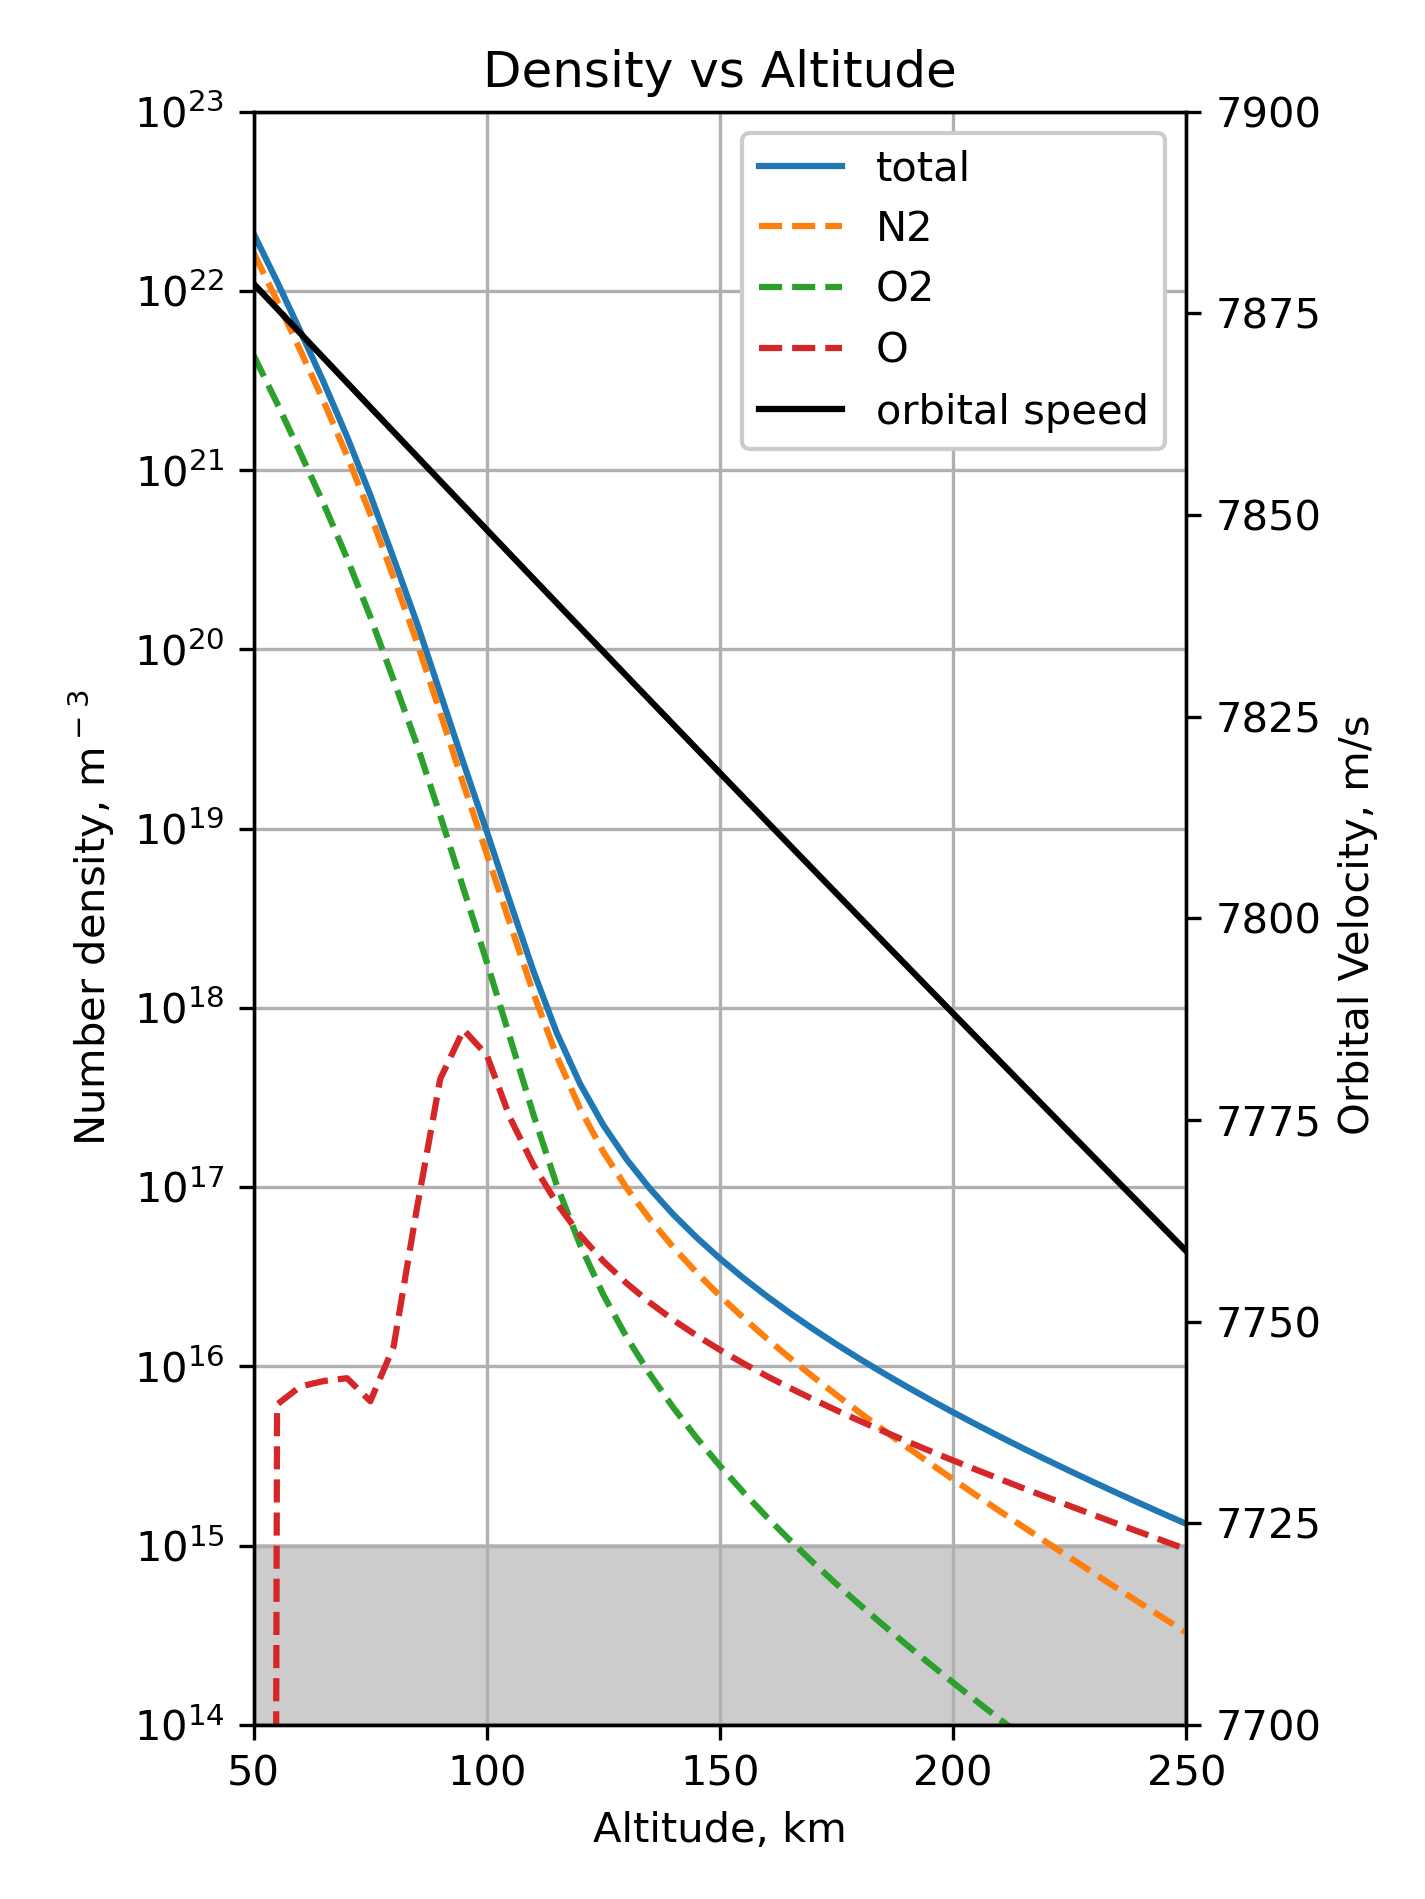
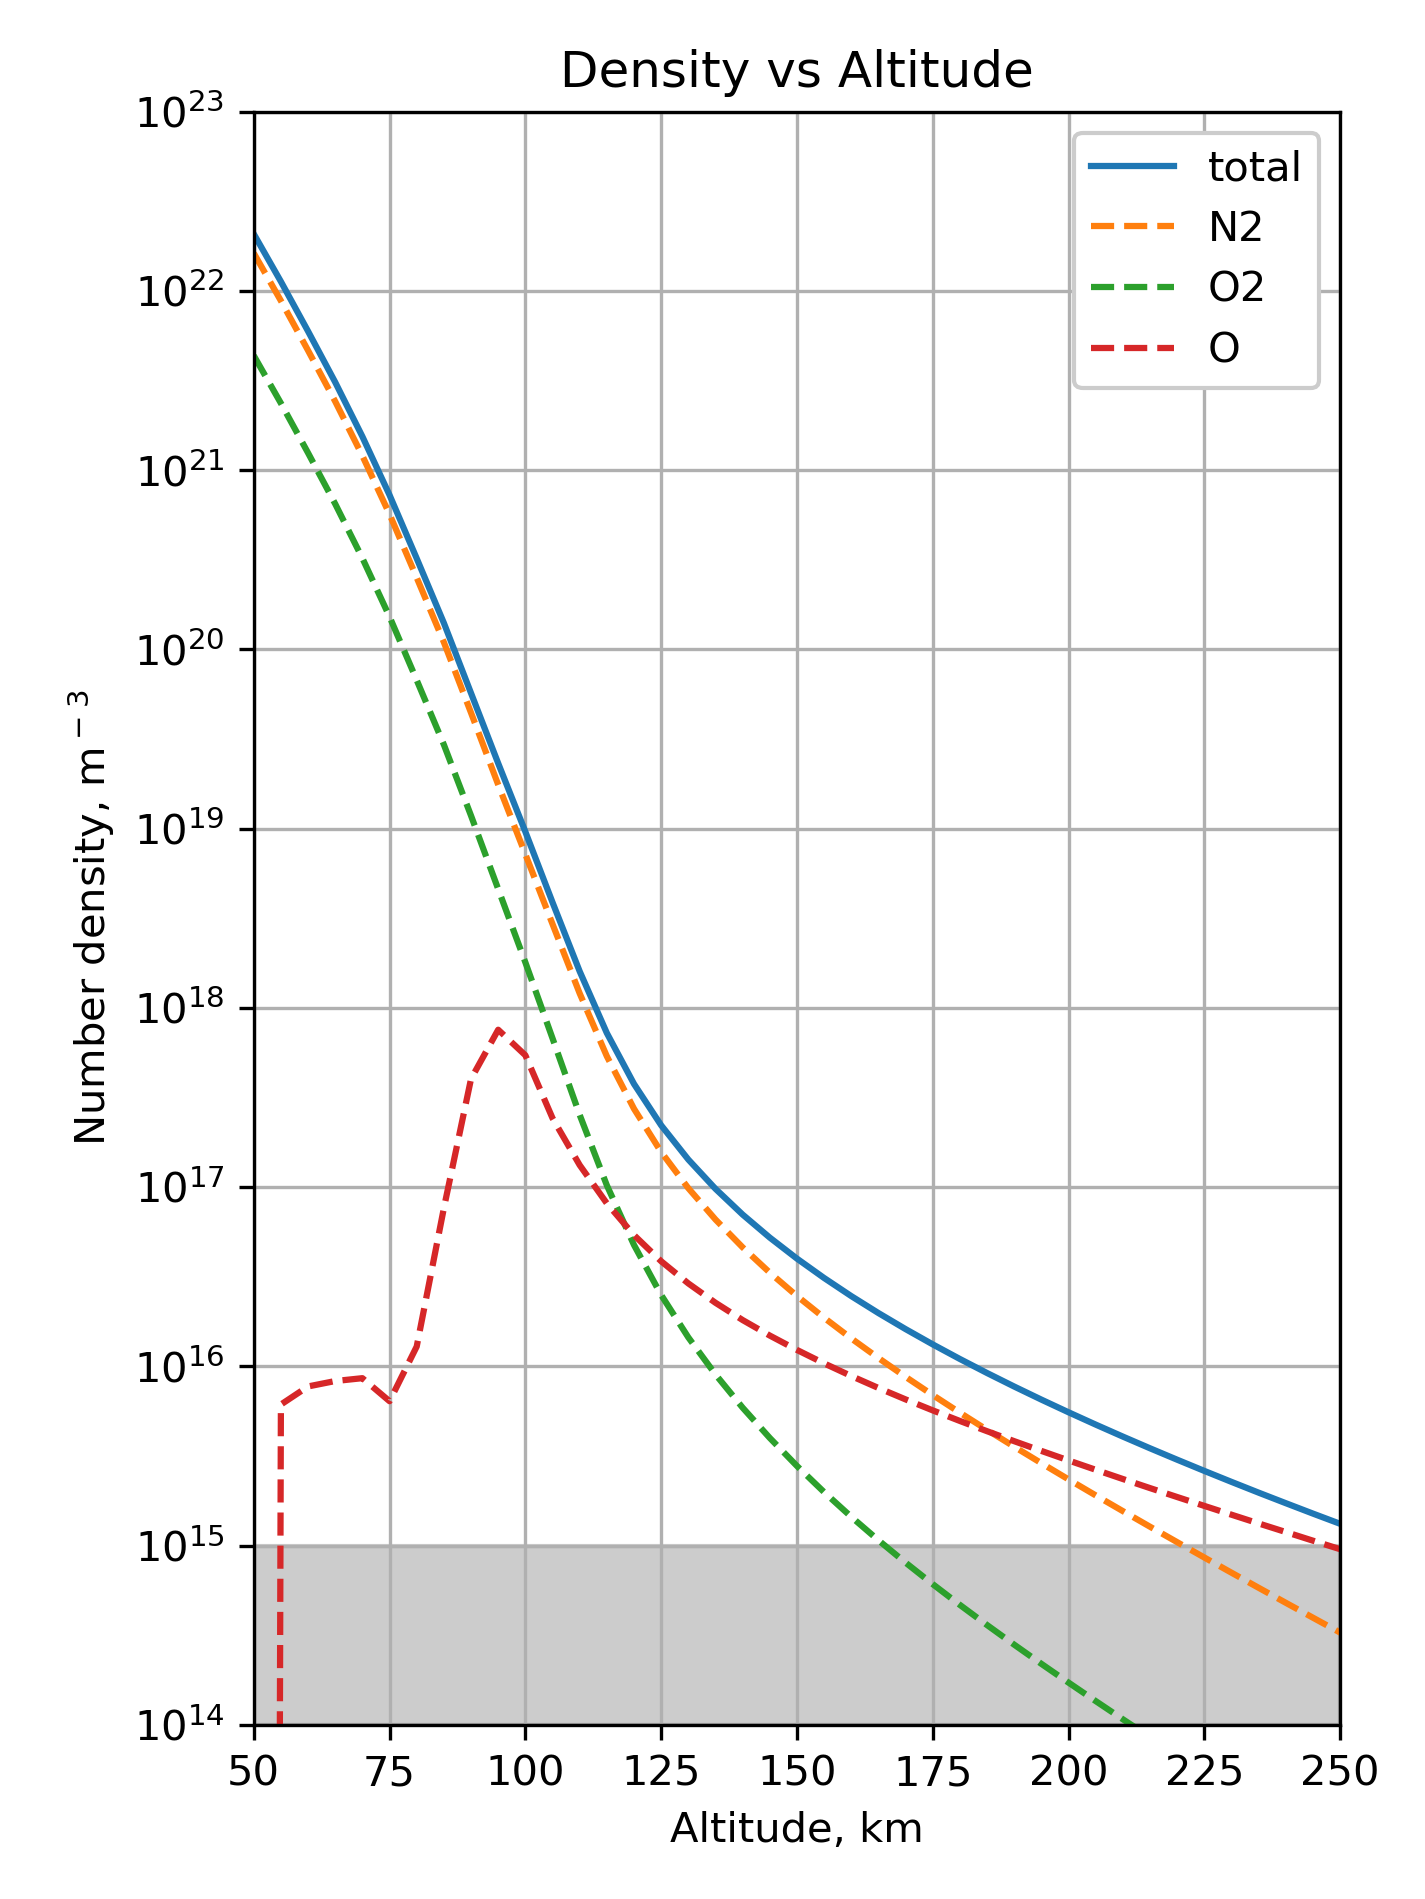
Update

diff --git a/Atmospheric_parameters_calculation.py b/Atmospheric_parameters_calculation.py
@@ -75,7 +75,7 @@ fig.savefig('Mass flow rate vs Altitude',dpi=300)
 plt.show()
 
 fig, ax = plt.subplots(figsize=figure_size)
-ax.semilogy(H,n_total,'-',label='total')
+ax.semilogy(H,n_total,'-',label='total',linewidth=3)
 ax.semilogy(H,n_N2,'--',label='N2')
 ax.semilogy(H,n_O2,'--',label='O2')
 ax.semilogy(H,n_N,'--',label='N')
@@ -97,7 +97,7 @@ fig.savefig('Density vs Altitude',dpi=300)
 plt.show()
 
 fig, ax = plt.subplots(figsize=figure_size)
-l1 = ax.semilogy(H,n_total,'-',label='total')
+l1 = ax.semilogy(H,n_total,'-',label='total',linewidth=3)
 l2 = ax.semilogy(H,n_N2,'--',label='N2')
 l3 = ax.semilogy(H,n_O2,'--',label='O2')
 #ax.semilogy(H,n_N,'--',label='N')
@@ -111,13 +111,9 @@ ax.set_xlabel('Altitude, km')
 ax.set_ylim(1e14,1e23)
 ax.set_yticks(np.logspace(14,23,10))
 ax.set_ylabel('Number density, m$^-$$^3$')
-ax2 = ax.twinx()
-l5 = ax2.plot(H,v_sc,'k',label='orbital speed')
-ax2.set_ylim(7700,7900)
-ax2.set_ylabel('Orbital Velocity, m/s ')
-ls = l1+l2+l3+l4+l5
+ls = l1+l2+l3+l4
 labs = [l.get_label() for l in ls]
-ax2.legend(ls,labs,framealpha=1.0)
+ax.legend(ls,labs,framealpha=1.0)
 ax.grid()
 ax.set_title('Density vs Altitude')
 fig.tight_layout()
@@ -168,9 +164,8 @@ l6 = ax3.plot(H,np.arctan(f.v_th(T,m[0])/v_sc)*180/np.pi,'--',label='max $\\thet
 l7 = ax3.plot(H,np.arctan(f.v_th(T,m[1])/v_sc)*180/np.pi,'--',label='max $\\theta$: O2')
 l8 = ax3.plot(H,np.arctan(f.v_th(T,m[2])/v_sc)*180/np.pi,'--',label='max $\\theta$: O')
 ax3.set_ylim(0,45)
-ax3.set_ylabel('Maximum flow angle, $\degree$')
+ax3.set_ylabel('Maximum angle in flow, $\degree$')
 ax3.spines["right"].set_position(("axes",1.25))
-
 ls = l1+l2+l3+l4+l5+l6+l7+l8
 labs = [l.get_label() for l in ls]
 ax3.legend(ls,labs,framealpha=1.0,loc='lower left', bbox_to_anchor=(1.45, 0.65))
@@ -178,6 +173,63 @@ ax.grid()
 ax.set_title('Speed, Temperature vs Altitude')
 fig.tight_layout()
 fig.savefig('Speed, Temperature vs Altitude',dpi=300)
+plt.show()
+
+fig, ax = plt.subplots(figsize=(4.75,5.25))
+l1 = ax.semilogy(H,n_total*v_sc,label='total',linewidth=3)
+l2 = ax.plot(H,n_N2*v_sc,'--',label='N2')
+l3 = ax.plot(H,n_O2*v_sc,'--',label='O2')
+l4 = ax.plot(H,n_O*v_sc,'--',label='O')
+ax.set_xlim(50,400)
+ax.set_xlabel('Altitude, km')
+ax.set_ylim(1e18,1e26)
+ax.set_yticks(np.logspace(18,26,9))
+ax.set_ylabel('Flux, #/$m^2$s')
+ls = l1+l2+l3+l4
+labs = [l.get_label() for l in ls]
+ax.legend(ls,labs,framealpha=1.0,loc='best')
+ax.grid()
+ax.set_title('Flux vs Altitude')
+fig.tight_layout()
+fig.savefig('Flux vs Altitude',dpi=300)
+plt.show()
+
+fig, ax = plt.subplots(figsize=figure_size)
+l1 = ax.plot(H,(n_N2+n_O2+n_O)/n_total*100,label='%(N2+O2+O)')
+l2 = ax.plot(H,n_N2/n_total*100,label='%N2')
+l3 = ax.plot(H,n_O2/n_total*100,label='%O2')
+l4 = ax.plot(H,n_O/n_total*100,label='%O')
+ax.set_xlim(50,400)
+ax.set_xlabel('Altitude, km')
+ax.set_ylim(0,100)
+ax.set_yticks(np.linspace(0,100,11))
+ax.set_ylabel('Fraction, %')
+ls = l1+l2+l3+l4
+labs = [l.get_label() for l in ls]
+ax.legend(ls,labs,framealpha=1.0,loc='best')
+ax.grid()
+ax.set_title('N2,O2,O vs Altitude')
+fig.tight_layout()
+fig.savefig('N2,O2,O vs Altitude',dpi=300)
+plt.show()
+
+fig, ax = plt.subplots(figsize=(4.75,4.75))
+l1 = ax.plot([0,0],[0,0])
+l2 = ax.plot([0,0],[0,0])
+l3 = ax.plot(H,n_O2/(n_O2+n_O)*100,label='%O2')
+l4 = ax.plot(H,n_O/(n_O2+n_O)*100,label='%O')
+ax.set_xlim(50,400)
+ax.set_xlabel('Altitude, km')
+ax.set_ylim(0,100)
+ax.set_yticks(np.linspace(0,100,11))
+ax.set_ylabel('Fraction, %')
+ls = l1+l2+l3+l4
+labs = [l.get_label() for l in ls]
+ax.legend(ls,labs,framealpha=1.0,loc='best')
+ax.grid()
+ax.set_title('O2,O vs Altitude')
+fig.tight_layout()
+fig.savefig('O2,O vs Altitude',dpi=300)
 plt.show()
 #%%
 h = 225 # km
